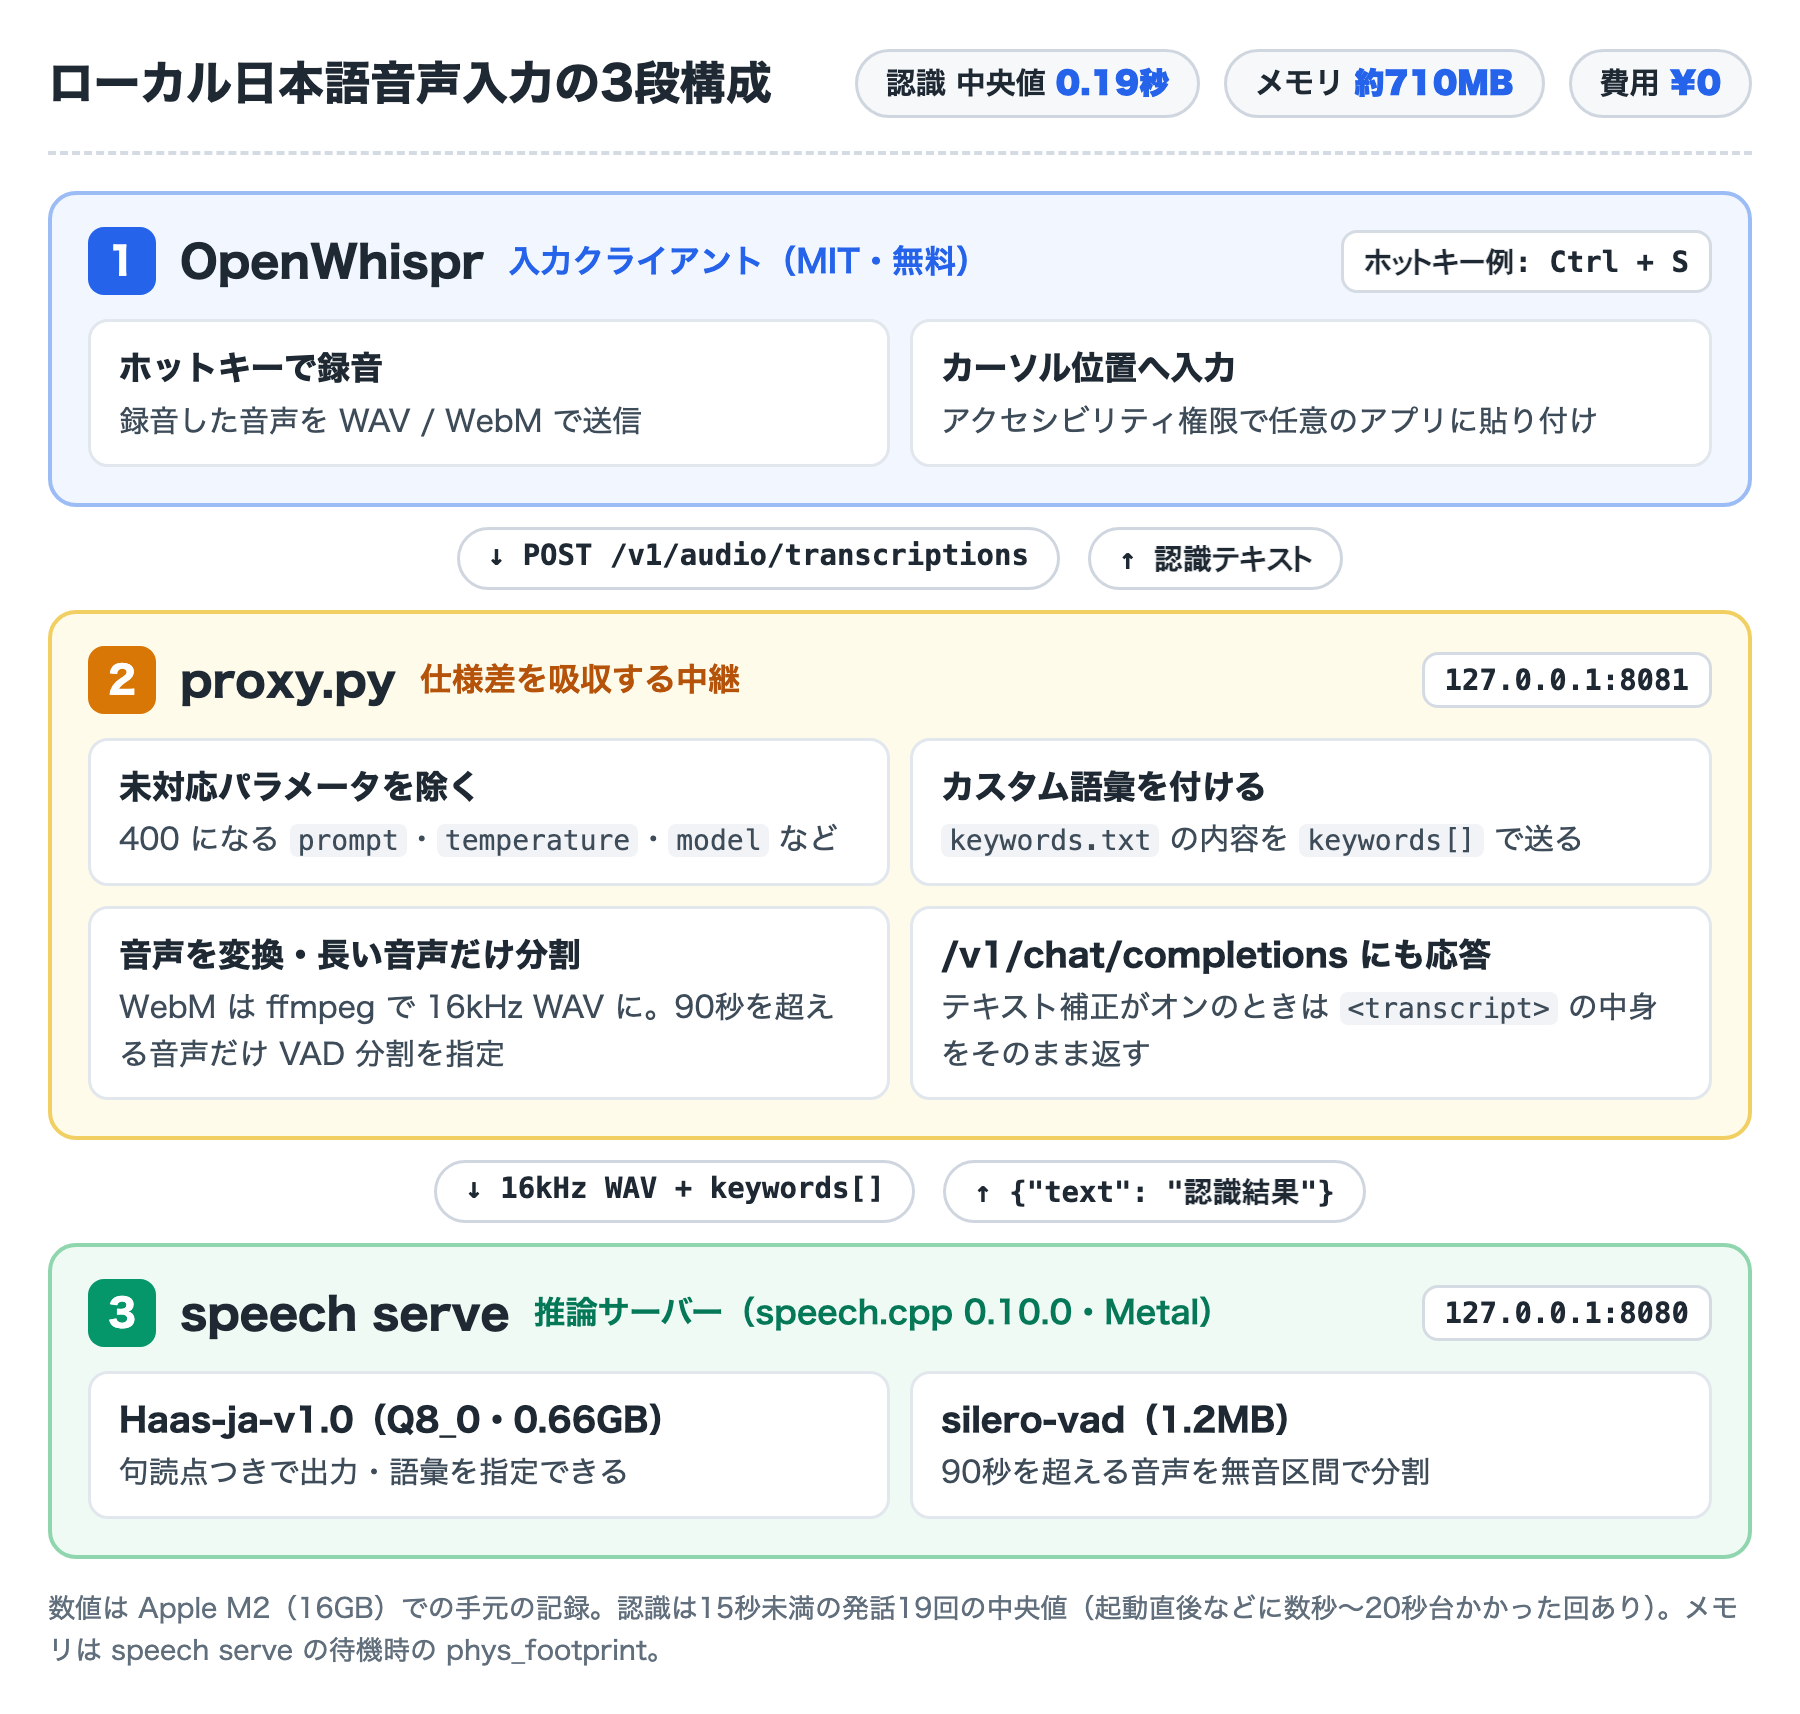
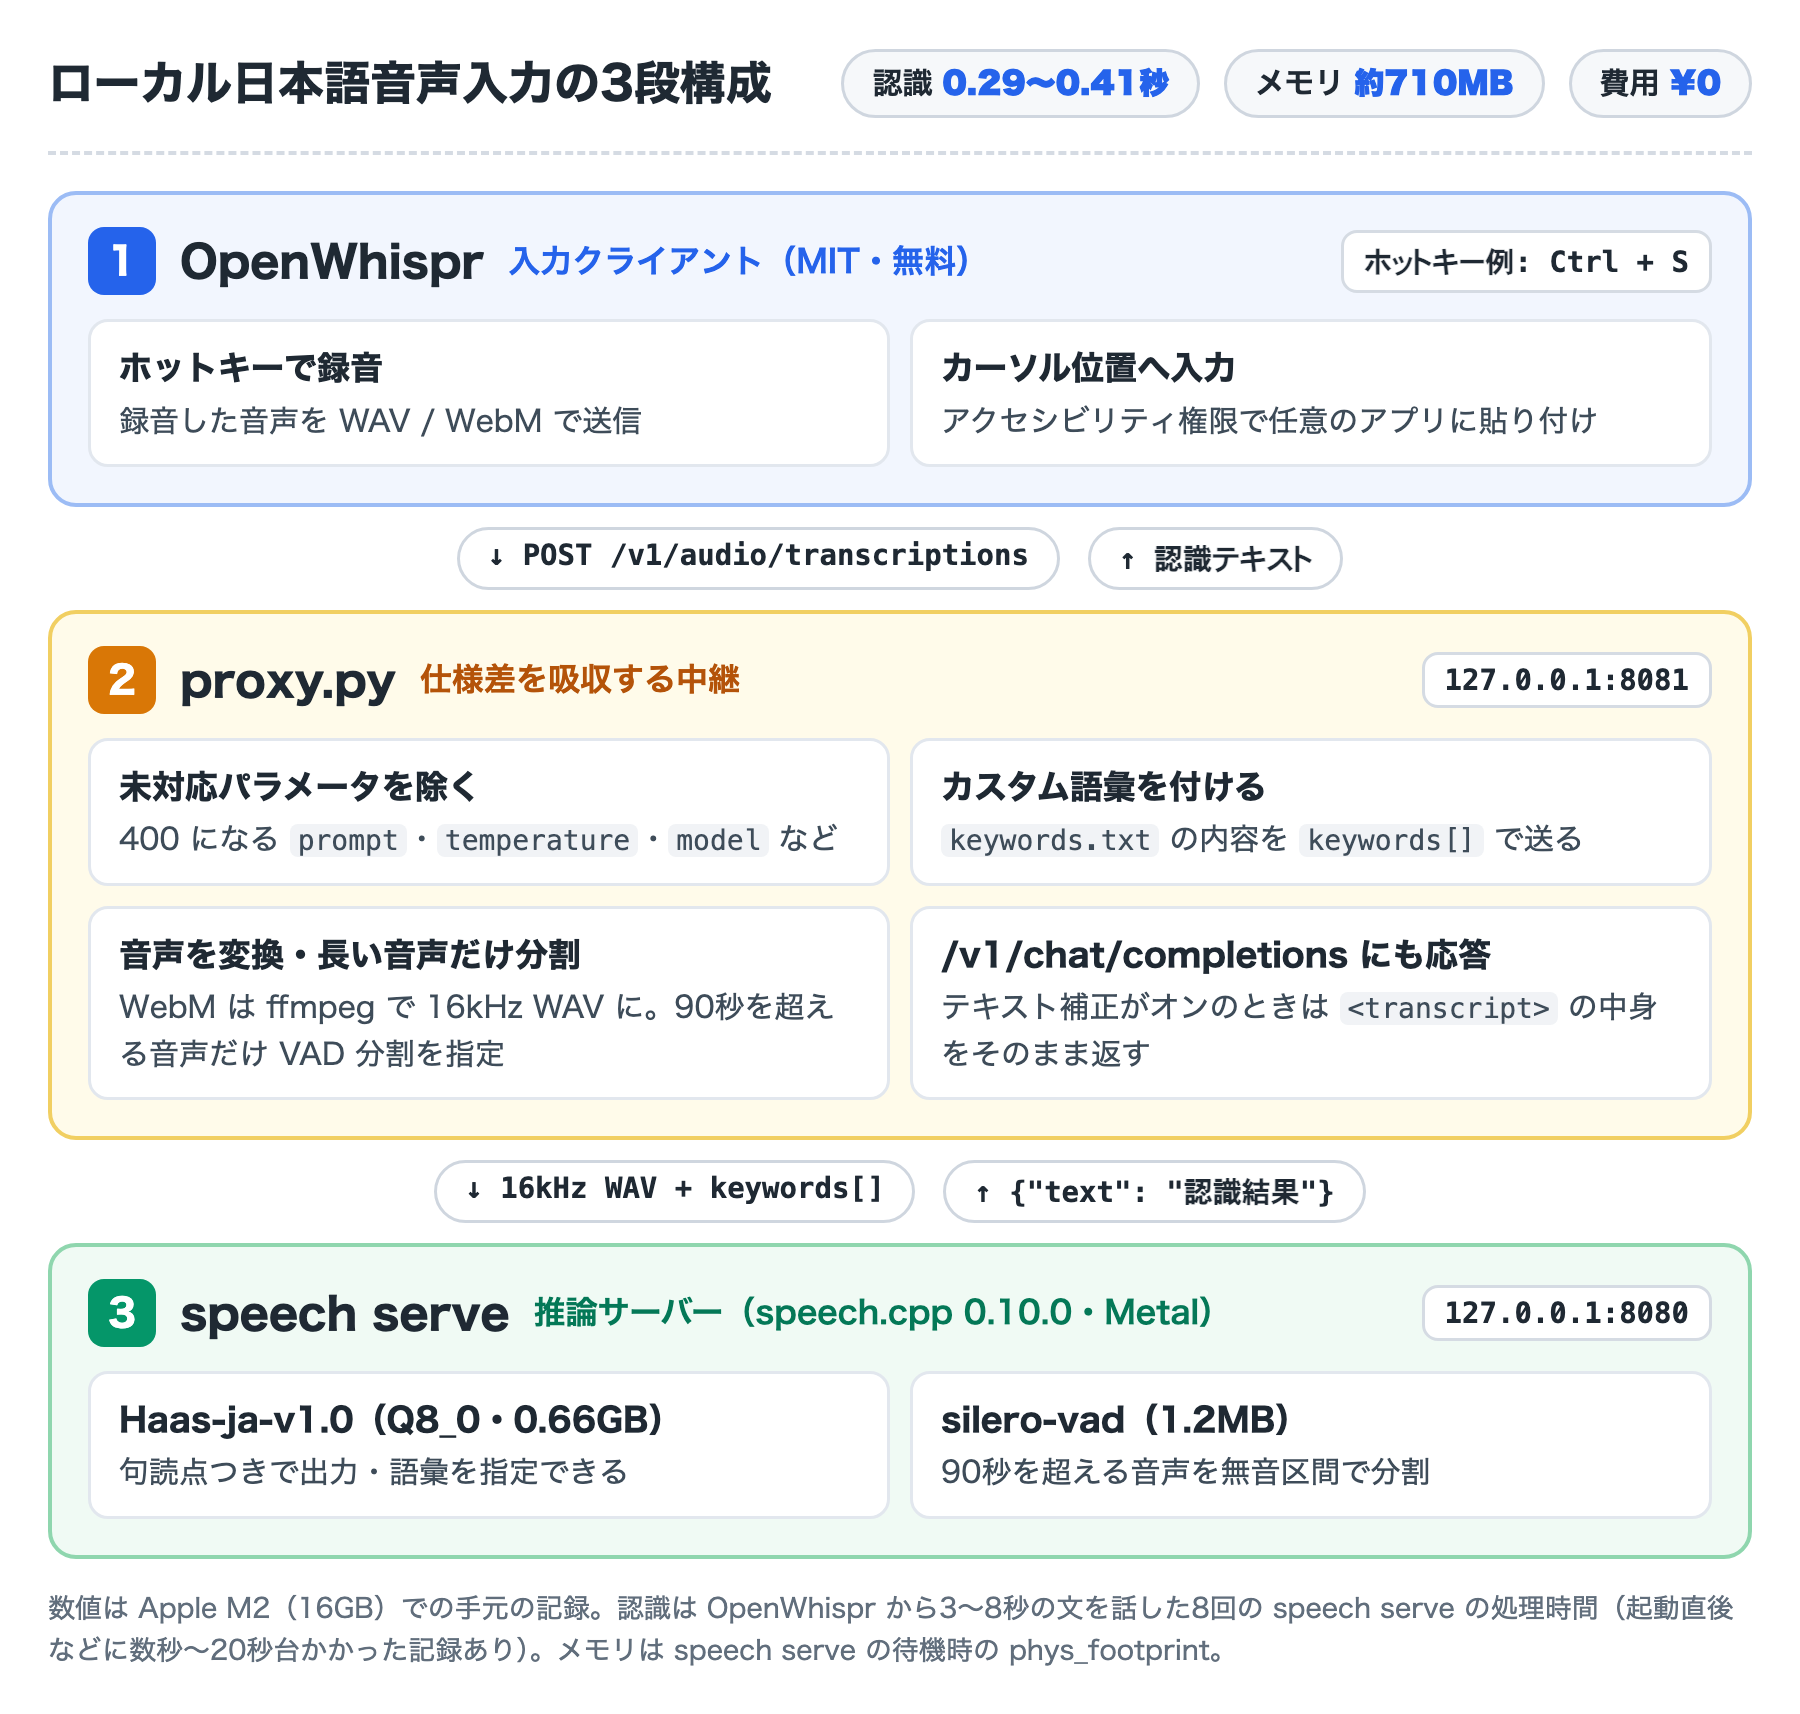
Use timings from real OpenWhispr dictation in figure and README

Changed region(s): [[0.0311, 0.9277, 0.9644, 0.9895], [0.4667, 0.0309, 0.6222, 0.0618]]

diff --git a/images/architecture.html b/images/architecture.html
@@ -41,7 +41,7 @@
 <body>
 <header>
   <h1>ローカル日本語音声入力の3段構成</h1>
-  <span class="pill">認識 中央値 <b>0.19秒</b></span>
+  <span class="pill">認識 <b>0.29〜0.41秒</b></span>
   <span class="pill">メモリ <b>約710MB</b></span>
   <span class="pill">費用 <b>¥0</b></span>
 </header>
@@ -79,6 +79,6 @@
   </div>
 </section>
 
-<p class="note">数値は Apple M2（16GB）での手元の記録。認識は15秒未満の発話19回の中央値（起動直後などに数秒〜20秒台かかった回あり）。メモリは speech serve の待機時の phys_footprint。</p>
+<p class="note">数値は Apple M2（16GB）での手元の記録。認識は OpenWhispr から3〜8秒の文を話した8回の speech serve の処理時間（起動直後などに数秒〜20秒台かかった記録あり）。メモリは speech serve の待機時の phys_footprint。</p>
 </body>
 </html>

diff --git a/README.md b/README.md
@@ -5,7 +5,7 @@ Apple Silicon Mac 上で日本語音声認識モデル [Haas-ja-v1.0](https://hu
 > [!WARNING]
 > 実験的な構成です。動作を確認したのは作者の環境1台（macOS 26、Apple M2、`speech.cpp` 0.10.0、OpenWhispr 1.11.0）だけで、`setup.sh` を新しい環境で実行して試してはいません。
 >
-> - 下の図の「認識 中央値0.19秒」は `speech serve` のログに残った処理時間（15秒未満の発話19回）で、話し終えてから文字が入力されるまでの時間ではありません。起動直後などに数秒〜20秒台かかった回もあります。図の元は `images/architecture.html` です。
+> - 下の図の「認識 0.29〜0.41秒」は、OpenWhispr から3〜8秒の文を話した8回の `speech serve` の処理時間で、話し終えてから文字が入力されるまでの時間ではありません。起動直後などに数秒〜20秒台かかった回もあります。図の元は `images/architecture.html` です。
 > - `proxy.py` は既定では認識結果をログに残しません。`HAAS_LOG_TEXT=1` を指定したときだけ、応答の先頭（200バイト）を `~/.local/share/haas-dictation/proxy.log` に記録します。
 > - OpenWhispr の通信をすべて確認したわけではありません。外部に送信しないことは保証できません。
 
